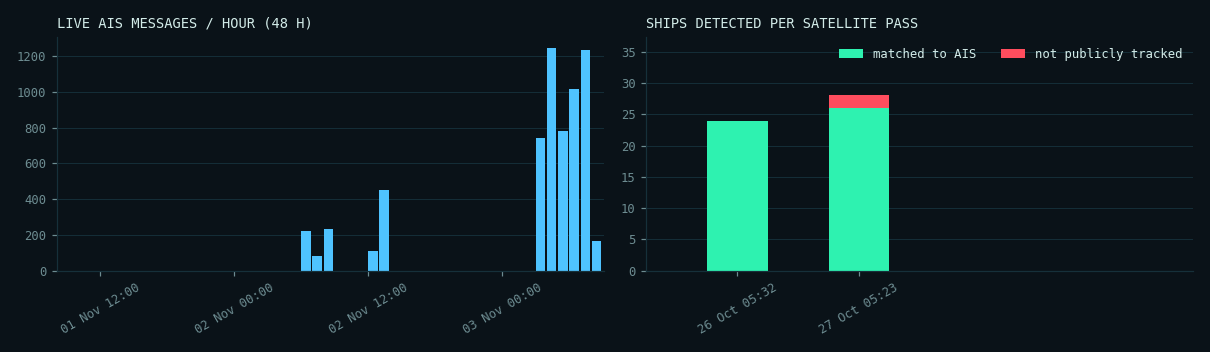
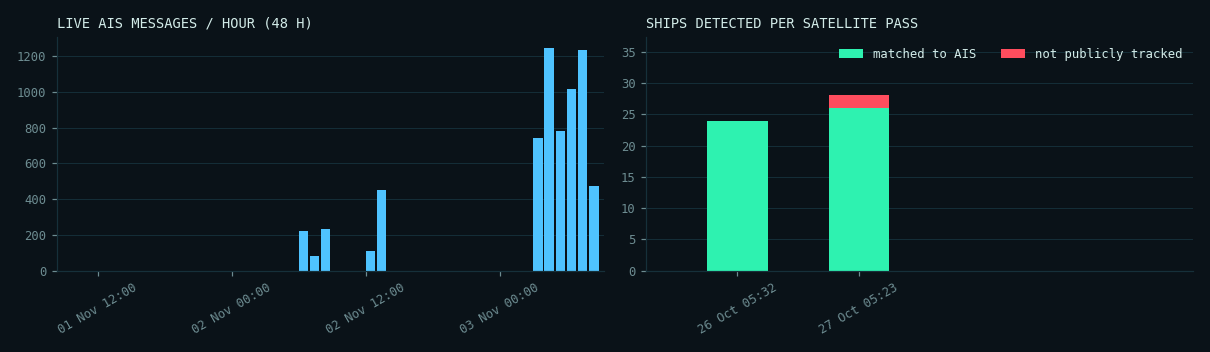
Automatic site update 2026-11-03 08:20 UTC

diff --git a/docs/denmark/index.html b/docs/denmark/index.html
@@ -83,13 +83,13 @@ footer{border-top:1px solid var(--line);padding:18px 0 28px;font:12px/1.6 var(--
   <div><div class="kicker">SAR &times; AIS &middot; MARITIME AWARENESS</div><div class="title">DARK VESSEL <b>DETECTION</b></div></div></a>
  <div class="status"><span class="pill"><span class="dot live"></span>AIS FEED <strong>LIVE</strong></span>
   <span class="pill">UTC <strong id="utc">--:--:--</strong></span>
-  <span class="pill">UPDATED <strong>03 Nov 08:07</strong></span></div>
+  <span class="pill">UPDATED <strong>03 Nov 08:21</strong></span></div>
 </div><nav class="tabs"><a class="" href="../index.html">OVERVIEW</a><a class="" href="../mumbai/index.html">MUMBAI</a><a class="on" href="../denmark/index.html">DENMARK</a><a class="" href="../nn/index.html">NEURAL NET</a><a class="" href="../demo/index.html">SIMULATION</a></nav></div></header>
 <main class="wrap"><div class="coords">SECTOR // DENMARK &middot; 55.55&ndash;55.85&deg;N &middot; 12.55&ndash;12.95&deg;E</div>
 <h1>Oresund, Copenhagen (Denmark/Sweden)</h1>
 <div class="grid">
  <div class="panel"><div class="label">Live AIS feed</div><div class="value small"><span class='ok'>RECEIVING</span></div><div class="muted mono" style="font-size:12px;margin-top:6px">0 min ago</div></div>
- <div class="panel"><div class="label">Ships broadcasting &middot; 30 min</div><div class="value cyan">66</div></div>
+ <div class="panel"><div class="label">Ships broadcasting &middot; 30 min</div><div class="value cyan">64</div></div>
  <div class="panel"><div class="label">Matched &middot; latest pass</div><div class="value ">26</div></div>
  <div class="panel"><div class="label">Not tracked &middot; high confidence</div><div class="value red">0</div></div>
  <div class="panel"><div class="label">Not tracked &middot; low confidence</div><div class="value amber">2</div></div>
@@ -98,7 +98,7 @@ footer{border-top:1px solid var(--line);padding:18px 0 28px;font:12px/1.6 var(--
 <div class="legend"><span><i style="background:var(--green)"></i>matched</span><span><i style="background:var(--red)"></i>not tracked &middot; high</span>
 <span><i style="background:var(--amber)"></i>not tracked &middot; low</span><span><i style="background:var(--cyan)"></i>live AIS</span></div>
 <div id="map" class="map"></div><script>
-const D=[{"lon": 12.574560869565218, "lat": 55.849597826086956, "length_m": 72.681575622935, "score": 0.6554655519501138, "shore_km": 0.14150886088341372, "status": "matched", "reason": "", "confidence": "high", "crop": "", "ship_prob": 0.9335045218467712}, {"lon": 12.704759174311928, "lat": 55.82280412844037, "length_m": 364.1071436957287, "score": 0.9904753373251979, "shore_km": 9.407061429825474, "status": "matched", "reason": "", "confidence": "high", "crop": "", "ship_prob": 0.9868959784507751}, {"lon": 12.786416463414636, "lat": 55.804669512195126, "length_m": 155.0522474362954, "score": 0.9999646038759398, "shore_km": 4.658419014138412, "status": "matched", "reason": "", "confidence": "high", "crop": "", "ship_prob": 0.9993557333946228}, {"lon": 12.88229375, "lat": 55.849146875, "length_m": 53.38783327710226, "score": 0.9899546194309776, "shore_km": 0.9067240720863213, "status": "candidate", "reason": "same_spot_in_another_pass", "confidence": "low", "crop": "crops/S1-Oresund-20261027_37.png", "ship_prob": 0.7905591130256653}, {"lon": 12.604004166666668, "lat": 55.75985, "length_m": 141.84238362073958, "score": 0.6867268898684522, "shore_km": 0.07168283192738693, "status": "matched", "reason": "", "confidence": "high", "crop": "", "ship_prob": 0.5051270127296448}, {"lon": 12.605736764705883, "lat": 55.75241323529412, "length_m": 122.11483240811877, "score": 0.9136889320646264, "shore_km": 0.6454382429486746, "status": "candidate", "reason": "same_spot_in_another_pass", "confidence": "low", "crop": "crops/S1-Oresund-20261027_77.png", "ship_prob": 0.7927113175392151}, {"lon": 12.703722571428573, "lat": 55.77917742857143, "length_m": 223.0817648726515, "score": 0.9996320924909895, "shore_km": 5.943270442766068, "status": "matched", "reason": "", "confidence": "high", "crop": "", "ship_prob": 0.9938097596168518}, {"lon": 12.902757692307693, "lat": 55.75654230769231, "length_m": 65.46226537445588, "score": 0.7187896049600956, "shore_km": 0.03584141596369347, "status": "matched", "reason": "", "confidence": "high", "crop": "", "ship_prob": 0.8691755533218384}, {"lon": 12.589922222222222, "lat": 55.725764814814816, "length_m": 146.45480845096748, "score": 0.9957587025210503, "shore_km": 0.034771280891766385, "status": "matched", "reason": "", "confidence": "high", "crop": "", "ship_prob": 0.9983701109886169}, {"lon": 12.598472047244096, "lat": 55.72077913385827, "length_m": 207.62671185403417, "score": 0.609772230082722, "shore_km": 0.14016751439395445, "status": "matched", "reason": "", "confidence": "high", "crop": "", "ship_prob": 0.6074324250221252}, {"lon": 12.589218, "lat": 55.712854, "length_m": 90.49550243938293, "score": 0.6486089656085543, "shore_km": 0.043464101114707984, "status": "matched", "reason": "", "confidence": "high", "crop": "", "ship_prob": 0.9998902082443237}, {"lon": 12.59024090909091, "lat": 55.71147090909091, "length_m": 162.54265478639104, "score": 1.0, "shore_km": 0.06146752127277559, "status": "matched", "reason": "", "confidence": "high", "crop": "", "ship_prob": 0.9999992847442627}, {"lon": 12.597835937500001, "lat": 55.701648437500005, "length_m": 133.31776511703256, "score": 0.9396217092764791, "shore_km": 0.06789309632894441, "status": "matched", "reason": "", "confidence": "high", "crop": "", "ship_prob": 0.9999727010726929}, {"lon": 12.60914, "lat": 55.69712, "length_m": 65.36743236464424, "score": 0.7827588237578229, "shore_km": 0.03134240904220623, "status": "matched", "reason": "", "confidence": "high", "crop": "", "ship_prob": 0.9867132902145386}, {"lon": 12.668552272727274, "lat": 55.72007840909091, "length_m": 207.26605497726354, "score": 0.6251792307103263, "shore_km": 0.03584141596369347, "status": "matched", "reason": "", "confidence": "high", "crop": "", "ship_prob": 0.9087074398994446}, {"lon": 12.5996, "lat": 55.68885, "length_m": 40.00855981470757, "score": 0.7664068666153926, "shore_km": 0.024587008509110237, "status": "matched", "reason": "", "confidence": "high", "crop": "", "ship_prob": 0.9766618013381958}, {"lon": 12.595819230769232, "lat": 55.67989871794872, "length_m": 127.62371588738732, "score": 0.9426870407335851, "shore_km": 0.05068741655051085, "status": "matched", "reason": "", "confidence": "high", "crop": "", "ship_prob": 0.9998841285705566}, {"lon": 12.594722222222224, "lat": 55.67918888888889, "length_m": 40.64467714079742, "score": 0.7639524834029205, "shore_km": 0.043464101114707984, "status": "matched", "reason": "", "confidence": "high", "crop": "", "ship_prob": 0.9999454021453857}, {"lon": 12.610660714285714, "lat": 55.69618571428572, "length_m": 94.51225356515693, "score": 0.9621795096736379, "shore_km": 0.03134240904220623, "status": "matched", "reason": "", "confidence": "high", "crop": "", "ship_prob": 0.999042809009552}, {"lon": 12.649045000000001, "lat": 55.692155, "length_m": 80.63364746000343, "score": 0.8515033668168979, "shore_km": 0.8863693295037299, "status": "matched", "reason": "", "confidence": "high", "crop": "", "ship_prob": 0.4333752989768982}, {"lon": 12.630751724137932, "lat": 55.685453448275865, "length_m": 125.00287123881988, "score": 0.93629426700422, "shore_km": 0.043464101114707984, "status": "matched", "reason": "", "confidence": "high", "crop": "", "ship_prob": 0.9975905418395996}, {"lon": 12.634987254901962, "lat": 55.677338235294116, "length_m": 276.5478352749318, "score": 0.7686103584091717, "shore_km": 0.024587008509110237, "status": "matched", "reason": "", "confidence": "high", "crop": "", "ship_prob": 0.9729636907577515}, {"lon": 12.68766150442478, "lat": 55.69581814159292, "length_m": 176.8074930452176, "score": 0.923202226335388, "shore_km": 2.6834920471942074, "status": "matched", "reason": "", "confidence": "high", "crop": "", "ship_prob": 0.8427141904830933}, {"lon": 12.65826847826087, "lat": 55.63610108695652, "length_m": 174.21377549767067, "score": 0.9833187000337672, "shore_km": 0.043464101114707984, "status": "matched", "reason": "", "confidence": "high", "crop": "", "ship_prob": 0.9998973608016968}, {"lon": 12.680683333333334, "lat": 55.610910000000004, "length_m": 74.22790892756812, "score": 0.6314184609397504, "shore_km": 0.03134240904220623, "status": "matched", "reason": "", "confidence": "high", "crop": "", "ship_prob": 0.44054293632507324}, {"lon": 12.868352132196163, "lat": 55.60022420042644, "length_m": 299.20726350177785, "score": 0.9999960398718075, "shore_km": 2.8169298200726325, "status": "matched", "reason": "", "confidence": "high", "crop": "", "ship_prob": 0.9967911839485168}, {"lon": 12.680875, "lat": 55.59323, "length_m": 95.51211981545671, "score": 0.7585723176580392, "shore_km": 0.03584141596369347, "status": "matched", "reason": "", "confidence": "high", "crop": "", "ship_prob": 0.797581672668457}, {"lon": 12.706387741935485, "lat": 55.56306903225806, "length_m": 301.4640427512081, "score": 0.9999731380181186, "shore_km": 3.1965238712919084, "status": "matched", "reason": "", "confidence": "high", "crop": "", "ship_prob": 0.9941650032997131}],LIVE=[{"lon": 12.676128333333333, "lat": 55.593608333333336, "sog": 0.0, "age": 27}, {"lon": 12.680405, "lat": 55.611246666666666, "sog": 0.0, "age": 24}, {"lon": 12.988963333333334, "lat": 55.626665, "sog": 0.0, "age": 21}, {"lon": 12.599023333333333, "lat": 55.68904, "sog": 0.1, "age": 21}, {"lon": 12.646881666666667, "lat": 55.677384999999994, "sog": 0.0, "age": 20}, {"lon": 12.990165, "lat": 55.6269, "sog": 0.0, "age": 18}, {"lon": 12.634855, "lat": 55.687155, "sog": 0.0, "age": 16}, {"lon": 12.651366666666666, "lat": 55.41807333333334, "sog": 12.2, "age": 16}, {"lon": 12.833333333333334, "lat": 55.855916666666666, "sog": 0.0, "age": 13}, {"lon": 12.830425, "lat": 55.85599, "sog": 0.0, "age": 13}, {"lon": 12.828066666666667, "lat": 55.86167833333333, "sog": 0.0, "age": 12}, {"lon": 12.630728333333334, "lat": 55.68986333333333, "sog": 0.1, "age": 11}, {"lon": 13.03514, "lat": 55.6247, "sog": 0.1, "age": 11}, {"lon": 12.594946666666667, "lat": 55.68244666666667, "sog": 0.0, "age": 11}, {"lon": 12.676645, "lat": 55.931886666666664, "sog": 0.1, "age": 10}, {"lon": 12.546501666666668, "lat": 55.435966666666666, "sog": 5.0, "age": 10}, {"lon": 12.8329, "lat": 55.85850666666667, "sog": 0.0, "age": 9}, {"lon": 12.678223333333333, "lat": 55.977761666666666, "sog": 10.0, "age": 8}, {"lon": 12.665866666666666, "lat": 55.71982, "sog": 0.0, "age": 7}, {"lon": 12.625323333333334, "lat": 55.691045, "sog": 0.0, "age": 7}, {"lon": 12.712173333333334, "lat": 55.962945, "sog": 6.2, "age": 6}, {"lon": 12.50104, "lat": 55.611358333333335, "sog": 0.0, "age": 6}, {"lon": 12.482441666666666, "lat": 55.6014, "sog": 0.0, "age": 6}, {"lon": 13.033308333333334, "lat": 55.624435, "sog": 0.0, "age": 5}, {"lon": 12.730961666666667, "lat": 55.980109999999996, "sog": 0.0, "age": 5}, {"lon": 12.90349, "lat": 55.75664666666667, "sog": 0.0, "age": 5}, {"lon": 12.999793333333335, "lat": 55.618365000000004, "sog": 0.0, "age": 4}, {"lon": 12.668695000000001, "lat": 55.54953666666667, "sog": 18.7, "age": 4}, {"lon": 12.572721666666666, "lat": 55.850856666666665, "sog": 0.0, "age": 4}, {"lon": 12.679371666666666, "lat": 55.71423333333333, "sog": 5.9, "age": 4}, {"lon": 12.682326666666667, "lat": 55.67440833333333, "sog": 7.9, "age": 3}, {"lon": 12.892146666666667, "lat": 55.52371166666667, "sog": 0.0, "age": 3}, {"lon": 12.593496666666665, "lat": 55.67922333333333, "sog": 0.0, "age": 3}, {"lon": 12.833716666666668, "lat": 55.85574999999999, "sog": 0.0, "age": 3}, {"lon": 12.823625, "lat": 55.86644166666667, "sog": 0.0, "age": 3}, {"lon": 12.730255, "lat": 55.752179999999996, "sog": 0.0, "age": 3}, {"lon": 12.83138, "lat": 55.856275, "sog": 0.0, "age": 3}, {"lon": 12.488543333333332, "lat": 55.518208333333334, "sog": 0.7, "age": 2}, {"lon": 13.033768333333335, "lat": 55.624555, "sog": 0.0, "age": 2}, {"lon": 12.698133333333335, "lat": 55.83351666666667, "sog": 15.2, "age": 2}, {"lon": 12.675073333333334, "lat": 55.993743333333335, "sog": 14.9, "age": 2}, {"lon": 12.634106666666666, "lat": 55.67577166666667, "sog": 0.0, "age": 2}, {"lon": 13.05849, "lat": 55.675655, "sog": 0.0, "age": 2}, {"lon": 12.743511666666667, "lat": 55.932053333333336, "sog": 12.9, "age": 2}, {"lon": 12.680065, "lat": 55.59289833333333, "sog": 0.0, "age": 2}, {"lon": 12.835145, "lat": 55.85987, "sog": 0.0, "age": 1}, {"lon": 12.676878333333333, "lat": 55.59395333333334, "sog": 0.0, "age": 1}, {"lon": 12.480878333333333, "lat": 55.60677666666666, "sog": 0.0, "age": 1}, {"lon": 12.647488333333333, "lat": 55.67688666666666, "sog": 0.0, "age": 1}, {"lon": 12.603455, "lat": 55.760506666666664, "sog": 0.0, "age": 1}, {"lon": 12.592989999999999, "lat": 55.679271666666665, "sog": 0.0, "age": 1}, {"lon": 12.701578333333334, "lat": 55.76547, "sog": 11.7, "age": 1}, {"lon": 12.639398333333332, "lat": 55.67948833333333, "sog": 2.5, "age": 1}, {"lon": 12.825833333333332, "lat": 55.854016666666666, "sog": 0.0, "age": 1}, {"lon": 12.643526666666666, "lat": 55.679595, "sog": 5.3, "age": 0}, {"lon": 12.744453333333333, "lat": 55.99321666666666, "sog": 0.0, "age": 0}, {"lon": 12.822263333333332, "lat": 55.775711666666666, "sog": 5.4, "age": 0}, {"lon": 12.791, "lat": 55.551276666666666, "sog": 10.1, "age": 0}, {"lon": 12.750395, "lat": 55.52394666666667, "sog": 10.6, "age": 0}, {"lon": 12.744433333333335, "lat": 55.99330333333333, "sog": 0.0, "age": 0}, {"lon": 12.722638333333332, "lat": 55.903778333333335, "sog": 0.0, "age": 0}, {"lon": 12.483568333333332, "lat": 55.531565, "sog": 7.6, "age": 0}, {"lon": 12.664656666666668, "lat": 55.67062833333333, "sog": 6.6, "age": 0}, {"lon": 12.603555, "lat": 55.76058166666667, "sog": 0.0, "age": 0}, {"lon": 12.831926666666668, "lat": 55.85404333333334, "sog": 0.0, "age": 0}, {"lon": 12.706163333333334, "lat": 55.560246666666664, "sog": 9.5, "age": 0}],B=[[55.55,12.55],[55.85,12.95]];const m=L.map('map',{zoomSnap:.25}).fitBounds(B);
+const D=[{"lon": 12.574560869565218, "lat": 55.849597826086956, "length_m": 72.681575622935, "score": 0.6554655519501138, "shore_km": 0.14150886088341372, "status": "matched", "reason": "", "confidence": "high", "crop": "", "ship_prob": 0.9335045218467712}, {"lon": 12.704759174311928, "lat": 55.82280412844037, "length_m": 364.1071436957287, "score": 0.9904753373251979, "shore_km": 9.407061429825474, "status": "matched", "reason": "", "confidence": "high", "crop": "", "ship_prob": 0.9868959784507751}, {"lon": 12.786416463414636, "lat": 55.804669512195126, "length_m": 155.0522474362954, "score": 0.9999646038759398, "shore_km": 4.658419014138412, "status": "matched", "reason": "", "confidence": "high", "crop": "", "ship_prob": 0.9993557333946228}, {"lon": 12.88229375, "lat": 55.849146875, "length_m": 53.38783327710226, "score": 0.9899546194309776, "shore_km": 0.9067240720863213, "status": "candidate", "reason": "same_spot_in_another_pass", "confidence": "low", "crop": "crops/S1-Oresund-20261027_37.png", "ship_prob": 0.7905591130256653}, {"lon": 12.604004166666668, "lat": 55.75985, "length_m": 141.84238362073958, "score": 0.6867268898684522, "shore_km": 0.07168283192738693, "status": "matched", "reason": "", "confidence": "high", "crop": "", "ship_prob": 0.5051270127296448}, {"lon": 12.605736764705883, "lat": 55.75241323529412, "length_m": 122.11483240811877, "score": 0.9136889320646264, "shore_km": 0.6454382429486746, "status": "candidate", "reason": "same_spot_in_another_pass", "confidence": "low", "crop": "crops/S1-Oresund-20261027_77.png", "ship_prob": 0.7927113175392151}, {"lon": 12.703722571428573, "lat": 55.77917742857143, "length_m": 223.0817648726515, "score": 0.9996320924909895, "shore_km": 5.943270442766068, "status": "matched", "reason": "", "confidence": "high", "crop": "", "ship_prob": 0.9938097596168518}, {"lon": 12.902757692307693, "lat": 55.75654230769231, "length_m": 65.46226537445588, "score": 0.7187896049600956, "shore_km": 0.03584141596369347, "status": "matched", "reason": "", "confidence": "high", "crop": "", "ship_prob": 0.8691755533218384}, {"lon": 12.589922222222222, "lat": 55.725764814814816, "length_m": 146.45480845096748, "score": 0.9957587025210503, "shore_km": 0.034771280891766385, "status": "matched", "reason": "", "confidence": "high", "crop": "", "ship_prob": 0.9983701109886169}, {"lon": 12.598472047244096, "lat": 55.72077913385827, "length_m": 207.62671185403417, "score": 0.609772230082722, "shore_km": 0.14016751439395445, "status": "matched", "reason": "", "confidence": "high", "crop": "", "ship_prob": 0.6074324250221252}, {"lon": 12.589218, "lat": 55.712854, "length_m": 90.49550243938293, "score": 0.6486089656085543, "shore_km": 0.043464101114707984, "status": "matched", "reason": "", "confidence": "high", "crop": "", "ship_prob": 0.9998902082443237}, {"lon": 12.59024090909091, "lat": 55.71147090909091, "length_m": 162.54265478639104, "score": 1.0, "shore_km": 0.06146752127277559, "status": "matched", "reason": "", "confidence": "high", "crop": "", "ship_prob": 0.9999992847442627}, {"lon": 12.597835937500001, "lat": 55.701648437500005, "length_m": 133.31776511703256, "score": 0.9396217092764791, "shore_km": 0.06789309632894441, "status": "matched", "reason": "", "confidence": "high", "crop": "", "ship_prob": 0.9999727010726929}, {"lon": 12.60914, "lat": 55.69712, "length_m": 65.36743236464424, "score": 0.7827588237578229, "shore_km": 0.03134240904220623, "status": "matched", "reason": "", "confidence": "high", "crop": "", "ship_prob": 0.9867132902145386}, {"lon": 12.668552272727274, "lat": 55.72007840909091, "length_m": 207.26605497726354, "score": 0.6251792307103263, "shore_km": 0.03584141596369347, "status": "matched", "reason": "", "confidence": "high", "crop": "", "ship_prob": 0.9087074398994446}, {"lon": 12.5996, "lat": 55.68885, "length_m": 40.00855981470757, "score": 0.7664068666153926, "shore_km": 0.024587008509110237, "status": "matched", "reason": "", "confidence": "high", "crop": "", "ship_prob": 0.9766618013381958}, {"lon": 12.595819230769232, "lat": 55.67989871794872, "length_m": 127.62371588738732, "score": 0.9426870407335851, "shore_km": 0.05068741655051085, "status": "matched", "reason": "", "confidence": "high", "crop": "", "ship_prob": 0.9998841285705566}, {"lon": 12.594722222222224, "lat": 55.67918888888889, "length_m": 40.64467714079742, "score": 0.7639524834029205, "shore_km": 0.043464101114707984, "status": "matched", "reason": "", "confidence": "high", "crop": "", "ship_prob": 0.9999454021453857}, {"lon": 12.610660714285714, "lat": 55.69618571428572, "length_m": 94.51225356515693, "score": 0.9621795096736379, "shore_km": 0.03134240904220623, "status": "matched", "reason": "", "confidence": "high", "crop": "", "ship_prob": 0.999042809009552}, {"lon": 12.649045000000001, "lat": 55.692155, "length_m": 80.63364746000343, "score": 0.8515033668168979, "shore_km": 0.8863693295037299, "status": "matched", "reason": "", "confidence": "high", "crop": "", "ship_prob": 0.4333752989768982}, {"lon": 12.630751724137932, "lat": 55.685453448275865, "length_m": 125.00287123881988, "score": 0.93629426700422, "shore_km": 0.043464101114707984, "status": "matched", "reason": "", "confidence": "high", "crop": "", "ship_prob": 0.9975905418395996}, {"lon": 12.634987254901962, "lat": 55.677338235294116, "length_m": 276.5478352749318, "score": 0.7686103584091717, "shore_km": 0.024587008509110237, "status": "matched", "reason": "", "confidence": "high", "crop": "", "ship_prob": 0.9729636907577515}, {"lon": 12.68766150442478, "lat": 55.69581814159292, "length_m": 176.8074930452176, "score": 0.923202226335388, "shore_km": 2.6834920471942074, "status": "matched", "reason": "", "confidence": "high", "crop": "", "ship_prob": 0.8427141904830933}, {"lon": 12.65826847826087, "lat": 55.63610108695652, "length_m": 174.21377549767067, "score": 0.9833187000337672, "shore_km": 0.043464101114707984, "status": "matched", "reason": "", "confidence": "high", "crop": "", "ship_prob": 0.9998973608016968}, {"lon": 12.680683333333334, "lat": 55.610910000000004, "length_m": 74.22790892756812, "score": 0.6314184609397504, "shore_km": 0.03134240904220623, "status": "matched", "reason": "", "confidence": "high", "crop": "", "ship_prob": 0.44054293632507324}, {"lon": 12.868352132196163, "lat": 55.60022420042644, "length_m": 299.20726350177785, "score": 0.9999960398718075, "shore_km": 2.8169298200726325, "status": "matched", "reason": "", "confidence": "high", "crop": "", "ship_prob": 0.9967911839485168}, {"lon": 12.680875, "lat": 55.59323, "length_m": 95.51211981545671, "score": 0.7585723176580392, "shore_km": 0.03584141596369347, "status": "matched", "reason": "", "confidence": "high", "crop": "", "ship_prob": 0.797581672668457}, {"lon": 12.706387741935485, "lat": 55.56306903225806, "length_m": 301.4640427512081, "score": 0.9999731380181186, "shore_km": 3.1965238712919084, "status": "matched", "reason": "", "confidence": "high", "crop": "", "ship_prob": 0.9941650032997131}],LIVE=[{"lon": 12.830425, "lat": 55.85599, "sog": 0.0, "age": 27}, {"lon": 12.828066666666667, "lat": 55.86167833333333, "sog": 0.0, "age": 26}, {"lon": 12.630728333333334, "lat": 55.68986333333333, "sog": 0.1, "age": 26}, {"lon": 13.03514, "lat": 55.6247, "sog": 0.1, "age": 25}, {"lon": 12.743511666666667, "lat": 55.932053333333336, "sog": 12.9, "age": 16}, {"lon": 12.480878333333333, "lat": 55.60677666666666, "sog": 0.0, "age": 15}, {"lon": 12.988903333333333, "lat": 55.626725, "sog": 0.0, "age": 11}, {"lon": 12.639091666666667, "lat": 55.67879333333334, "sog": 1.0, "age": 11}, {"lon": 12.592986666666667, "lat": 55.67928, "sog": 0.0, "age": 11}, {"lon": 12.64327, "lat": 55.67908833333333, "sog": 0.0, "age": 11}, {"lon": 12.744453333333333, "lat": 55.993215, "sog": 0.0, "age": 10}, {"lon": 12.827605, "lat": 55.86271, "sog": 0.0, "age": 9}, {"lon": 12.572751666666667, "lat": 55.850865, "sog": 0.0, "age": 9}, {"lon": 12.730686666666665, "lat": 55.98034, "sog": 0.0, "age": 8}, {"lon": 12.990166666666665, "lat": 55.62689833333333, "sog": 0.0, "age": 8}, {"lon": 12.831391666666667, "lat": 55.85628, "sog": 0.0, "age": 7}, {"lon": 12.646895, "lat": 55.67737833333333, "sog": 0.0, "age": 7}, {"lon": 12.66594, "lat": 55.71981666666667, "sog": 0.1, "age": 7}, {"lon": 12.999791666666665, "lat": 55.618365000000004, "sog": 0.0, "age": 6}, {"lon": 12.680093333333334, "lat": 55.59286833333333, "sog": 0.0, "age": 6}, {"lon": 12.723086666666667, "lat": 55.93948666666667, "sog": 6.0, "age": 6}, {"lon": 12.892128333333334, "lat": 55.52374833333333, "sog": 0.0, "age": 6}, {"lon": 12.489641666666667, "lat": 55.51907333333334, "sog": 0.2, "age": 5}, {"lon": 12.688881666666667, "lat": 55.64696166666667, "sog": 8.1, "age": 5}, {"lon": 12.82495, "lat": 55.865316666666665, "sog": 4.3, "age": 5}, {"lon": 12.8329, "lat": 55.85850666666667, "sog": 0.0, "age": 5}, {"lon": 13.033326666666666, "lat": 55.62448833333334, "sog": 0.0, "age": 5}, {"lon": 12.809384999999999, "lat": 55.789375, "sog": 5.4, "age": 4}, {"lon": 13.033785, "lat": 55.62460166666666, "sog": 0.0, "age": 4}, {"lon": 12.997251666666667, "lat": 55.613775000000004, "sog": 0.0, "age": 4}, {"lon": 12.688596666666665, "lat": 55.67971333333333, "sog": 8.3, "age": 3}, {"lon": 12.681753333333335, "lat": 55.691345, "sog": 5.9, "age": 3}, {"lon": 12.903498333333333, "lat": 55.75664166666666, "sog": 0.0, "age": 3}, {"lon": 12.744433333333335, "lat": 55.993325, "sog": 0.0, "age": 3}, {"lon": 12.625316666666667, "lat": 55.69106166666666, "sog": 0.0, "age": 3}, {"lon": 12.603466666666666, "lat": 55.76049166666667, "sog": 0.0, "age": 3}, {"lon": 12.67758, "lat": 55.98419166666667, "sog": 10.6, "age": 3}, {"lon": 12.713708333333333, "lat": 55.80405333333333, "sog": 11.8, "age": 3}, {"lon": 12.482451666666666, "lat": 55.60140666666667, "sog": 0.0, "age": 2}, {"lon": 12.530401666666668, "lat": 55.46496666666667, "sog": 4.9, "age": 2}, {"lon": 12.833683333333333, "lat": 55.855783333333335, "sog": 0.0, "age": 2}, {"lon": 12.739681666666666, "lat": 55.897131666666674, "sog": 9.6, "age": 2}, {"lon": 12.823663333333334, "lat": 55.86639, "sog": 0.1, "age": 2}, {"lon": 12.593518333333332, "lat": 55.67912333333334, "sog": 0.0, "age": 2}, {"lon": 12.603548333333332, "lat": 55.760576666666665, "sog": 0.0, "age": 2}, {"lon": 12.730269999999999, "lat": 55.7522, "sog": 0.1, "age": 2}, {"lon": 12.690883333333334, "lat": 55.77538333333334, "sog": 14.9, "age": 2}, {"lon": 12.831928333333334, "lat": 55.85404166666667, "sog": 0.0, "age": 2}, {"lon": 12.647468333333334, "lat": 55.67688333333333, "sog": 0.0, "age": 2}, {"lon": 12.721328333333334, "lat": 55.92482, "sog": 10.3, "age": 2}, {"lon": 12.83393, "lat": 55.57989166666667, "sog": 10.6, "age": 1}, {"lon": 13.058496666666667, "lat": 55.675666666666665, "sog": 0.0, "age": 1}, {"lon": 12.594946666666667, "lat": 55.68246333333333, "sog": 0.0, "age": 1}, {"lon": 12.521343333333334, "lat": 55.52117166666667, "sog": 18.8, "age": 1}, {"lon": 12.796118333333334, "lat": 55.55382833333333, "sog": 10.3, "age": 1}, {"lon": 12.634115000000001, "lat": 55.675761666666666, "sog": 0.0, "age": 1}, {"lon": 12.719195000000001, "lat": 55.935311666666664, "sog": 15.3, "age": 1}, {"lon": 12.70016, "lat": 55.59504333333334, "sog": 9.5, "age": 1}, {"lon": 12.83515, "lat": 55.85987, "sog": 0.0, "age": 0}, {"lon": 12.833300000000001, "lat": 55.855866666666664, "sog": 0.0, "age": 0}, {"lon": 12.67643, "lat": 55.93197333333333, "sog": 0.0, "age": 0}, {"lon": 12.501058333333333, "lat": 55.611356666666666, "sog": 0.0, "age": 0}, {"lon": 12.492038333333333, "lat": 55.56097833333333, "sog": 7.5, "age": 0}, {"lon": 12.676893333333334, "lat": 55.593920000000004, "sog": 0.0, "age": 0}],B=[[55.55,12.55],[55.85,12.95]];const m=L.map('map',{zoomSnap:.25}).fitBounds(B);
 // re-fit once layout has settled: if the container had no size when the map was created, Leaflet falls back to zoom 0
 const refit=()=>{m.invalidateSize();m.fitBounds(B);};setTimeout(refit,0);window.addEventListener('load',refit);
 // standard OSM tiles (no API key), turned into a dark "radar console" basemap with a CSS filter (.radar-tiles)
@@ -116,8 +116,8 @@ L.control.layers(null,{'Radar detections (selected pass)':det,'Live AIS, last 30
 </script>
 <h2>Pass log</h2><div class='tablewrap'><table><thead><tr><th>pass (UTC)</th><th>ships</th><th>matched</th><th>not tracked</th><th>low conf.</th><th>match rate</th><th>AIS msgs</th></tr></thead><tbody><tr><td>2026-10-27 05:23 UTC</td><td>28</td><td class='ok'>26</td><td class='bad'>0</td><td style='color:var(--amber)'>2</td><td>93%</td><td>10687</td></tr><tr><td>2026-10-26 05:32 UTC</td><td>24</td><td class='ok'>24</td><td class='bad'>0</td><td style='color:var(--amber)'>0</td><td>100%</td><td>11603</td></tr></tbody></table></div>
 <h2>Telemetry</h2><img class="chart" src="charts.png" alt="AIS messages per hour and ships detected per pass">
-<ul class="acq" style="margin-top:10px"><li>AIS MSG / H &middot; 1258</li><li>FEED GAPS 24 H &middot; 14
-(1154 min)</li></ul>
+<ul class="acq" style="margin-top:10px"><li>AIS MSG / H &middot; 1324</li><li>FEED GAPS 24 H &middot; 16
+(1157 min)</li></ul>
 <h2>Sentinel-1 acquisitions &middot; 14 days</h2><ul class="acq"><li>2026-11-02 05:23 UTC</li><li>2026-11-01 16:44 UTC</li><li>2026-11-01 05:31 UTC</li><li>2026-10-31 16:52 UTC</li><li>2026-10-30 17:00 UTC</li><li>2026-10-27 05:23 UTC</li><li>2026-10-26 05:32 UTC</li><li>2026-10-25 16:52 UTC</li></ul></main>
 <footer><div class="wrap">Contains modified Copernicus Sentinel data 2026 &middot; AIS: aisstream.io, Danish Maritime Authority &middot;
 &copy; OpenStreetMap contributors</div></footer>

diff --git a/docs/index.html b/docs/index.html
@@ -83,13 +83,13 @@ footer{border-top:1px solid var(--line);padding:18px 0 28px;font:12px/1.6 var(--
   <div><div class="kicker">SAR &times; AIS &middot; MARITIME AWARENESS</div><div class="title">DARK VESSEL <b>DETECTION</b></div></div></a>
  <div class="status"><span class="pill"><span class="dot live"></span>AIS FEED <strong>LIVE</strong></span>
   <span class="pill">UTC <strong id="utc">--:--:--</strong></span>
-  <span class="pill">UPDATED <strong>03 Nov 08:07</strong></span></div>
+  <span class="pill">UPDATED <strong>03 Nov 08:21</strong></span></div>
 </div><nav class="tabs"><a class="on" href="index.html">OVERVIEW</a><a class="" href="mumbai/index.html">MUMBAI</a><a class="" href="denmark/index.html">DENMARK</a><a class="" href="nn/index.html">NEURAL NET</a><a class="" href="demo/index.html">SIMULATION</a></nav></div></header>
 <main class="wrap"><div class="coords">SYSTEM OVERVIEW</div>
 <h1>Ships the radar sees that nobody is tracking</h1>
 <div class="grid" style="margin-top:18px"><div class="panel"><div class="label">Satellite passes processed</div><div class="value ">3</div></div><div class="panel"><div class="label">Ships matched to AIS</div><div class="value ">50</div></div>
 <div class="panel"><div class="label">Not tracked &middot; high confidence</div><div class="value red">0</div></div><div class="panel"><div class="label">Not tracked &middot; low confidence</div><div class="value amber">117</div></div>
-<div class="panel"><div class="label">Broadcasting now &middot; 30 min</div><div class="value cyan">66</div></div></div>
+<div class="panel"><div class="label">Broadcasting now &middot; 30 min</div><div class="value cyan">64</div></div></div>
 <h2>Pipeline</h2><div class="flow"><div class="step"><div class="n">01</div><div class="t">Radar image</div><div class="d">Sentinel-1 SAR &middot; VH &middot; 10 m</div></div><div class="step"><div class="n">02</div><div class="t">Propose</div><div class="d">CFAR &middot; 5.5 &times; local sea</div></div><a class="step nn" href="nn/index.html"><div class="n">03 &middot; NEURAL NETWORK</div><div class="t">ShipCNN</div><div class="d">CNN &middot; P(ship)</div></a><div class="step"><div class="n">04</div><div class="t">Align AIS</div><div class="d">Dead reckoning &middot; &plusmn; 30 min</div></div><div class="step"><div class="n">05</div><div class="t">Match</div><div class="d">Hungarian &middot; speed-aware gate</div></div><div class="step"><div class="n">06</div><div class="t">Flag</div><div class="d">High / low confidence</div></div></div>
 <h2>System</h2><ul class="acq"><li>RECORDER &middot; LIVE</li><li>PASS SWEEP &middot; EVERY 15 MIN</li><li>COVERAGE &ge; 65%</li><li>SHIPCNN &middot; THRESHOLD 0.69</li></ul>
 <h2>Sectors</h2><div class="grid"><a class="panel region" href="mumbai/index.html"><div class="label">Sector // MUMBAI</div>
@@ -105,10 +105,10 @@ footer{border-top:1px solid var(--line);padding:18px 0 28px;font:12px/1.6 var(--
 <div class="kv"><span>ships matched to AIS</span><span class="ok">50</span></div>
 <div class="kv"><span>not tracked, high confidence</span><span class="bad">0</span></div>
 <div class="kv"><span>not tracked, low confidence</span><span style="color:var(--amber)">2</span></div>
-<div class="kv"><span>broadcasting now (30 min)</span><span style="color:var(--cyan)">66</span></div>
+<div class="kv"><span>broadcasting now (30 min)</span><span style="color:var(--cyan)">64</span></div>
 <div class="go">OPEN SECTOR &rarr;</div></a></div>
 <h2>Run log</h2>
-<div class="tablewrap"><table><thead><tr><th>run (UTC)</th><th>mumbai live</th><th>mumbai msg/h</th><th>denmark live</th><th>denmark msg/h</th></tr></thead><tbody><tr><td>2026-11-03 08:07</td><td>0</td><td>0</td><td>66</td><td>1258</td></tr><tr><td>2026-11-03 08:05</td><td>0</td><td>0</td><td>65</td><td>1252</td></tr><tr><td>2026-11-03 07:51</td><td>0</td><td>0</td><td>63</td><td>1190</td></tr><tr><td>2026-11-03 07:50</td><td>0</td><td>0</td><td>64</td><td>1182</td></tr><tr><td>2026-11-03 07:36</td><td>0</td><td>0</td><td>61</td><td>1216</td></tr><tr><td>2026-11-03 07:36</td><td>0</td><td>0</td><td>62</td><td>1218</td></tr><tr><td>2026-11-03 07:35</td><td>0</td><td>0</td><td>61</td><td>1204</td></tr><tr><td>2026-11-03 07:21</td><td>0</td><td>0</td><td>57</td><td>1152</td></tr><tr><td>2026-11-03 07:20</td><td>0</td><td>0</td><td>57</td><td>1158</td></tr><tr><td>2026-11-03 07:20</td><td>0</td><td>0</td><td>58</td><td>1154</td></tr><tr><td>2026-11-03 07:06</td><td>0</td><td>0</td><td>56</td><td>1126</td></tr><tr><td>2026-11-03 07:05</td><td>0</td><td>0</td><td>56</td><td>1084</td></tr><tr><td>2026-11-03 06:51</td><td>0</td><td>0</td><td>56</td><td>848</td></tr><tr><td>2026-11-03 06:49</td><td>0</td><td>0</td><td>55</td><td>824</td></tr><tr><td>2026-11-03 06:35</td><td>0</td><td>0</td><td>58</td><td>800</td></tr><tr><td>2026-11-03 06:34</td><td>0</td><td>0</td><td>58</td><td>816</td></tr><tr><td>2026-11-03 06:20</td><td>0</td><td>0</td><td>51</td><td>876</td></tr><tr><td>2026-11-03 06:19</td><td>0</td><td>0</td><td>47</td><td>866</td></tr><tr><td>2026-11-03 05:46</td><td>0</td><td>0</td><td>62</td><td>986</td></tr><tr><td>2026-11-03 05:44</td><td>0</td><td>0</td><td>62</td><td>992</td></tr><tr><td>2026-11-03 05:30</td><td>0</td><td>0</td><td>57</td><td>972</td></tr><tr><td>2026-11-03 05:29</td><td>0</td><td>0</td><td>57</td><td>970</td></tr><tr><td>2026-11-03 05:14</td><td>0</td><td>0</td><td>50</td><td>1000</td></tr><tr><td>2026-11-03 05:13</td><td>0</td><td>0</td><td>50</td><td>1026</td></tr></tbody></table></div></main>
+<div class="tablewrap"><table><thead><tr><th>run (UTC)</th><th>mumbai live</th><th>mumbai msg/h</th><th>denmark live</th><th>denmark msg/h</th></tr></thead><tbody><tr><td>2026-11-03 08:21</td><td>0</td><td>0</td><td>64</td><td>1324</td></tr><tr><td>2026-11-03 08:07</td><td>0</td><td>0</td><td>66</td><td>1258</td></tr><tr><td>2026-11-03 08:05</td><td>0</td><td>0</td><td>65</td><td>1252</td></tr><tr><td>2026-11-03 07:51</td><td>0</td><td>0</td><td>63</td><td>1190</td></tr><tr><td>2026-11-03 07:50</td><td>0</td><td>0</td><td>64</td><td>1182</td></tr><tr><td>2026-11-03 07:36</td><td>0</td><td>0</td><td>61</td><td>1216</td></tr><tr><td>2026-11-03 07:36</td><td>0</td><td>0</td><td>62</td><td>1218</td></tr><tr><td>2026-11-03 07:35</td><td>0</td><td>0</td><td>61</td><td>1204</td></tr><tr><td>2026-11-03 07:21</td><td>0</td><td>0</td><td>57</td><td>1152</td></tr><tr><td>2026-11-03 07:20</td><td>0</td><td>0</td><td>57</td><td>1158</td></tr><tr><td>2026-11-03 07:20</td><td>0</td><td>0</td><td>58</td><td>1154</td></tr><tr><td>2026-11-03 07:06</td><td>0</td><td>0</td><td>56</td><td>1126</td></tr><tr><td>2026-11-03 07:05</td><td>0</td><td>0</td><td>56</td><td>1084</td></tr><tr><td>2026-11-03 06:51</td><td>0</td><td>0</td><td>56</td><td>848</td></tr><tr><td>2026-11-03 06:49</td><td>0</td><td>0</td><td>55</td><td>824</td></tr><tr><td>2026-11-03 06:35</td><td>0</td><td>0</td><td>58</td><td>800</td></tr><tr><td>2026-11-03 06:34</td><td>0</td><td>0</td><td>58</td><td>816</td></tr><tr><td>2026-11-03 06:20</td><td>0</td><td>0</td><td>51</td><td>876</td></tr><tr><td>2026-11-03 06:19</td><td>0</td><td>0</td><td>47</td><td>866</td></tr><tr><td>2026-11-03 05:46</td><td>0</td><td>0</td><td>62</td><td>986</td></tr><tr><td>2026-11-03 05:44</td><td>0</td><td>0</td><td>62</td><td>992</td></tr><tr><td>2026-11-03 05:30</td><td>0</td><td>0</td><td>57</td><td>972</td></tr><tr><td>2026-11-03 05:29</td><td>0</td><td>0</td><td>57</td><td>970</td></tr><tr><td>2026-11-03 05:14</td><td>0</td><td>0</td><td>50</td><td>1000</td></tr></tbody></table></div></main>
 <footer><div class="wrap">Contains modified Copernicus Sentinel data 2026 &middot; AIS: aisstream.io, Danish Maritime Authority &middot;
 &copy; OpenStreetMap contributors</div></footer>
 <script>(function(){const e=document.getElementById('utc');const t=()=>e.textContent=new Date().toISOString().slice(11,19);t();setInterval(t,1000);})();</script>

diff --git a/docs/mumbai/index.html b/docs/mumbai/index.html
@@ -83,7 +83,7 @@ footer{border-top:1px solid var(--line);padding:18px 0 28px;font:12px/1.6 var(--
   <div><div class="kicker">SAR &times; AIS &middot; MARITIME AWARENESS</div><div class="title">DARK VESSEL <b>DETECTION</b></div></div></a>
  <div class="status"><span class="pill"><span class="dot live"></span>AIS FEED <strong>LIVE</strong></span>
   <span class="pill">UTC <strong id="utc">--:--:--</strong></span>
-  <span class="pill">UPDATED <strong>03 Nov 08:07</strong></span></div>
+  <span class="pill">UPDATED <strong>03 Nov 08:21</strong></span></div>
 </div><nav class="tabs"><a class="" href="../index.html">OVERVIEW</a><a class="on" href="../mumbai/index.html">MUMBAI</a><a class="" href="../denmark/index.html">DENMARK</a><a class="" href="../nn/index.html">NEURAL NET</a><a class="" href="../demo/index.html">SIMULATION</a></nav></div></header>
 <main class="wrap"><div class="coords">SECTOR // MUMBAI &middot; 18.80&ndash;19.10&deg;N &middot; 72.55&ndash;72.95&deg;E</div>
 <h1>Mumbai coast and harbour, India</h1>
@@ -116,8 +116,8 @@ L.control.layers(null,{'Radar detections (selected pass)':det,'Live AIS, last 30
 </script>
 <h2>Pass log</h2><div class='tablewrap'><table><thead><tr><th>pass (UTC)</th><th>ships</th><th>matched</th><th>not tracked</th><th>low conf.</th><th>match rate</th><th>AIS msgs</th></tr></thead><tbody><tr><td>2026-10-24 01:02 UTC</td><td>115</td><td class='ok'>0</td><td class='bad'>0</td><td style='color:var(--amber)'>115</td><td>0%</td><td>0</td></tr></tbody></table></div>
 <h2>Telemetry</h2><img class="chart" src="charts.png" alt="AIS messages per hour and ships detected per pass">
-<ul class="acq" style="margin-top:10px"><li>AIS MSG / H &middot; 0</li><li>FEED GAPS 24 H &middot; 14
-(1154 min)</li></ul>
+<ul class="acq" style="margin-top:10px"><li>AIS MSG / H &middot; 0</li><li>FEED GAPS 24 H &middot; 16
+(1157 min)</li></ul>
 <h2>Sentinel-1 acquisitions &middot; 14 days</h2><ul class="acq"><li>2026-10-24 01:02 UTC</li></ul></main>
 <footer><div class="wrap">Contains modified Copernicus Sentinel data 2026 &middot; AIS: aisstream.io, Danish Maritime Authority &middot;
 &copy; OpenStreetMap contributors</div></footer>

diff --git a/docs/demo/index.html b/docs/demo/index.html
@@ -83,7 +83,7 @@ footer{border-top:1px solid var(--line);padding:18px 0 28px;font:12px/1.6 var(--
   <div><div class="kicker">SAR &times; AIS &middot; MARITIME AWARENESS</div><div class="title">DARK VESSEL <b>DETECTION</b></div></div></a>
  <div class="status"><span class="pill"><span class="dot live"></span>AIS FEED <strong>LIVE</strong></span>
   <span class="pill">UTC <strong id="utc">--:--:--</strong></span>
-  <span class="pill">UPDATED <strong>03 Nov 08:07</strong></span></div>
+  <span class="pill">UPDATED <strong>03 Nov 08:21</strong></span></div>
 </div><nav class="tabs"><a class="" href="../index.html">OVERVIEW</a><a class="" href="../mumbai/index.html">MUMBAI</a><a class="" href="../denmark/index.html">DENMARK</a><a class="" href="../nn/index.html">NEURAL NET</a><a class="on" href="../demo/index.html">SIMULATION</a></nav></div></header>
 <main class="wrap"><div class="coords">SIMULATION // SYNTHETIC SCENES WITH KNOWN GROUND TRUTH</div>
 <h1>Simulation</h1>

diff --git a/docs/nn/index.html b/docs/nn/index.html
@@ -83,7 +83,7 @@ footer{border-top:1px solid var(--line);padding:18px 0 28px;font:12px/1.6 var(--
   <div><div class="kicker">SAR &times; AIS &middot; MARITIME AWARENESS</div><div class="title">DARK VESSEL <b>DETECTION</b></div></div></a>
  <div class="status"><span class="pill"><span class="dot live"></span>AIS FEED <strong>LIVE</strong></span>
   <span class="pill">UTC <strong id="utc">--:--:--</strong></span>
-  <span class="pill">UPDATED <strong>03 Nov 08:07</strong></span></div>
+  <span class="pill">UPDATED <strong>03 Nov 08:21</strong></span></div>
 </div><nav class="tabs"><a class="" href="../index.html">OVERVIEW</a><a class="" href="../mumbai/index.html">MUMBAI</a><a class="" href="../denmark/index.html">DENMARK</a><a class="on" href="../nn/index.html">NEURAL NET</a><a class="" href="../demo/index.html">SIMULATION</a></nav></div></header>
 <main class="wrap"><div class="coords">NEURAL NETWORK // SHIPCNN</div>
 <h1>ShipCNN</h1>
